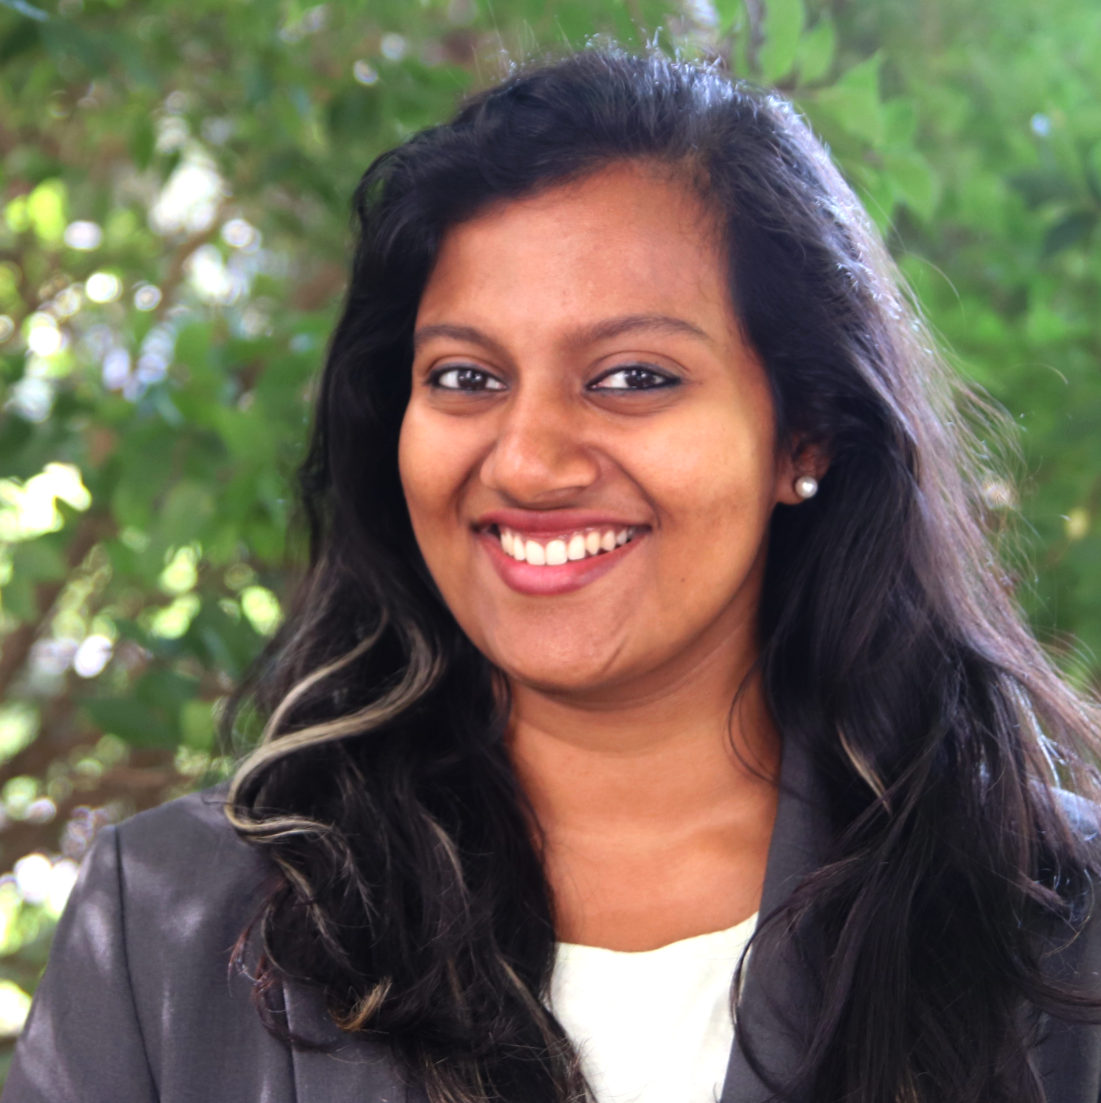
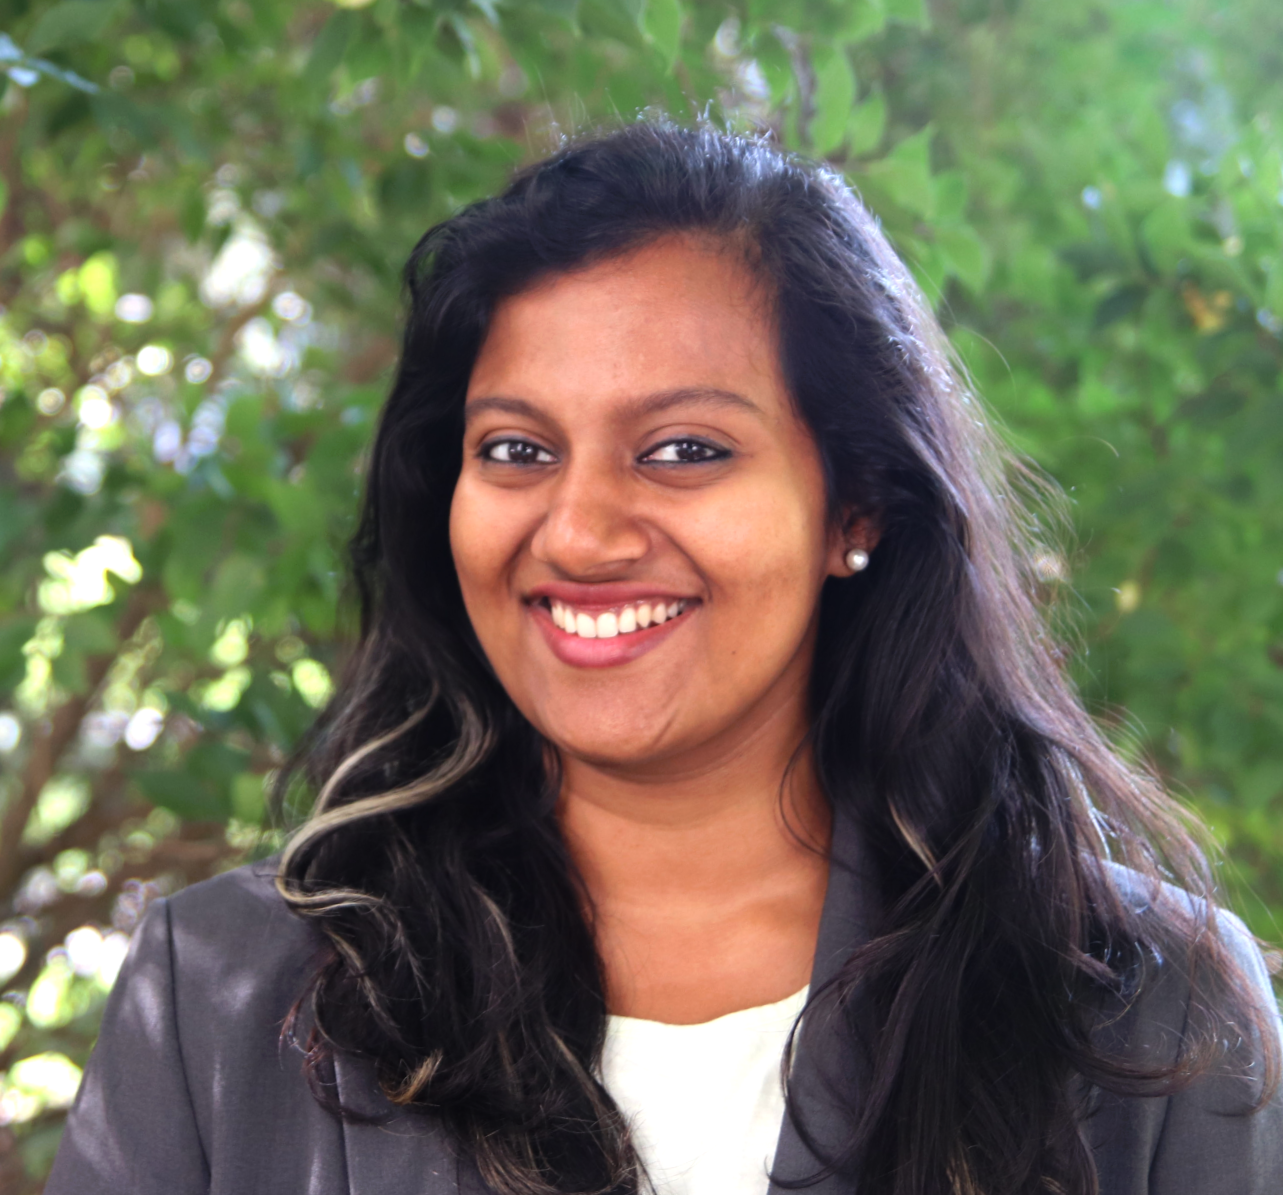
new photo, made the about me section a list rather than a paragraph

diff --git a/index.html b/index.html
@@ -50,11 +50,16 @@
     <section id="welcome" class="welcome-section">
             <div class="container">
                 <div class="row">
-                    <div class="col-sm-3">
-                        <img src="profile-photo.png" alt="profile photo" width="100%" height="100%", class="center", style="padding-top:25%">
+                    <div class="col-sm-4", style="padding-left: 5%">
+                        <img src="profile-photo.png" alt="profile photo" width="100%" height="100%", class="center", style="padding:0%">
                     </div>
-                    <div class="col-sm-5", style="padding-left: 20px;">
-                        <h1><b>Bhavya Balu </b> </h1>
+                    <div class="col-sm-4", style="padding-left: 20px; padding-right: 0%;">
+                        <h1><b> Bhavya Balu </b> </h1>
+                         PhD candidate <br>
+                         Advised by <a href = "http://khairgroup.cheme.cmu.edu/Home.html" target="_blank" rel="noopener noreferrer"> Prof. Aditya Khair</a> <br>
+                        <a href="https://www.cheme.engineering.cmu.edu/" target="_blank" rel="noopener noreferrer">Chemical Engineering</a> <br> 
+                         Carnegie Mellon University <br><br>
+                         Undergraduate from <a href="https://www.iitm.ac.in/" target="_blank" rel="noopener noreferrer">IIT Madras</a> 
                         <ul class="list-inline idxIcons" style="font-size: 1.5em;">
                             <li>
                                 <a href="cv_bbalu.pdf" target="_blank" rel="noopener noreferrer">
@@ -73,7 +78,6 @@
                                     <i class="fas fa-envelope"  style="color:black;"></i></a>
                             </li>
                         </ul>
-                        <p> I am a PhD candidate in the <a href="https://www.cheme.engineering.cmu.edu/" target="_blank" rel="noopener noreferrer">Department of Chemical Engineering</a> at <a href="https://www.cmu.edu/" target="_blank" rel="noopener noreferrer">Carnegie Mellon University,</a> advised by <a href = "http://khairgroup.cheme.cmu.edu/Home.html" target="_blank" rel="noopener noreferrer"> Prof. Aditya Khair</a>. I work on mathematical modeling of ion transport phenomena in electrochemical and electrokinetic systems, with a specific interest in quantifying the effects of ion asymmetry. I obtained my Bachelor's degree from the <a href="https://www.iitm.ac.in/" target="_blank" rel="noopener noreferrer">Indian Institute of Technology Madras,</a> where I worked with <a href = "https://che.iitm.ac.in/~senai/" target="_blank" rel="noopener noreferrer"> Prof. Raghunathan Rengaswamy </a> on modeling droplet behavior in 2D microchannels. </p>
                     </div>
                 
                     
